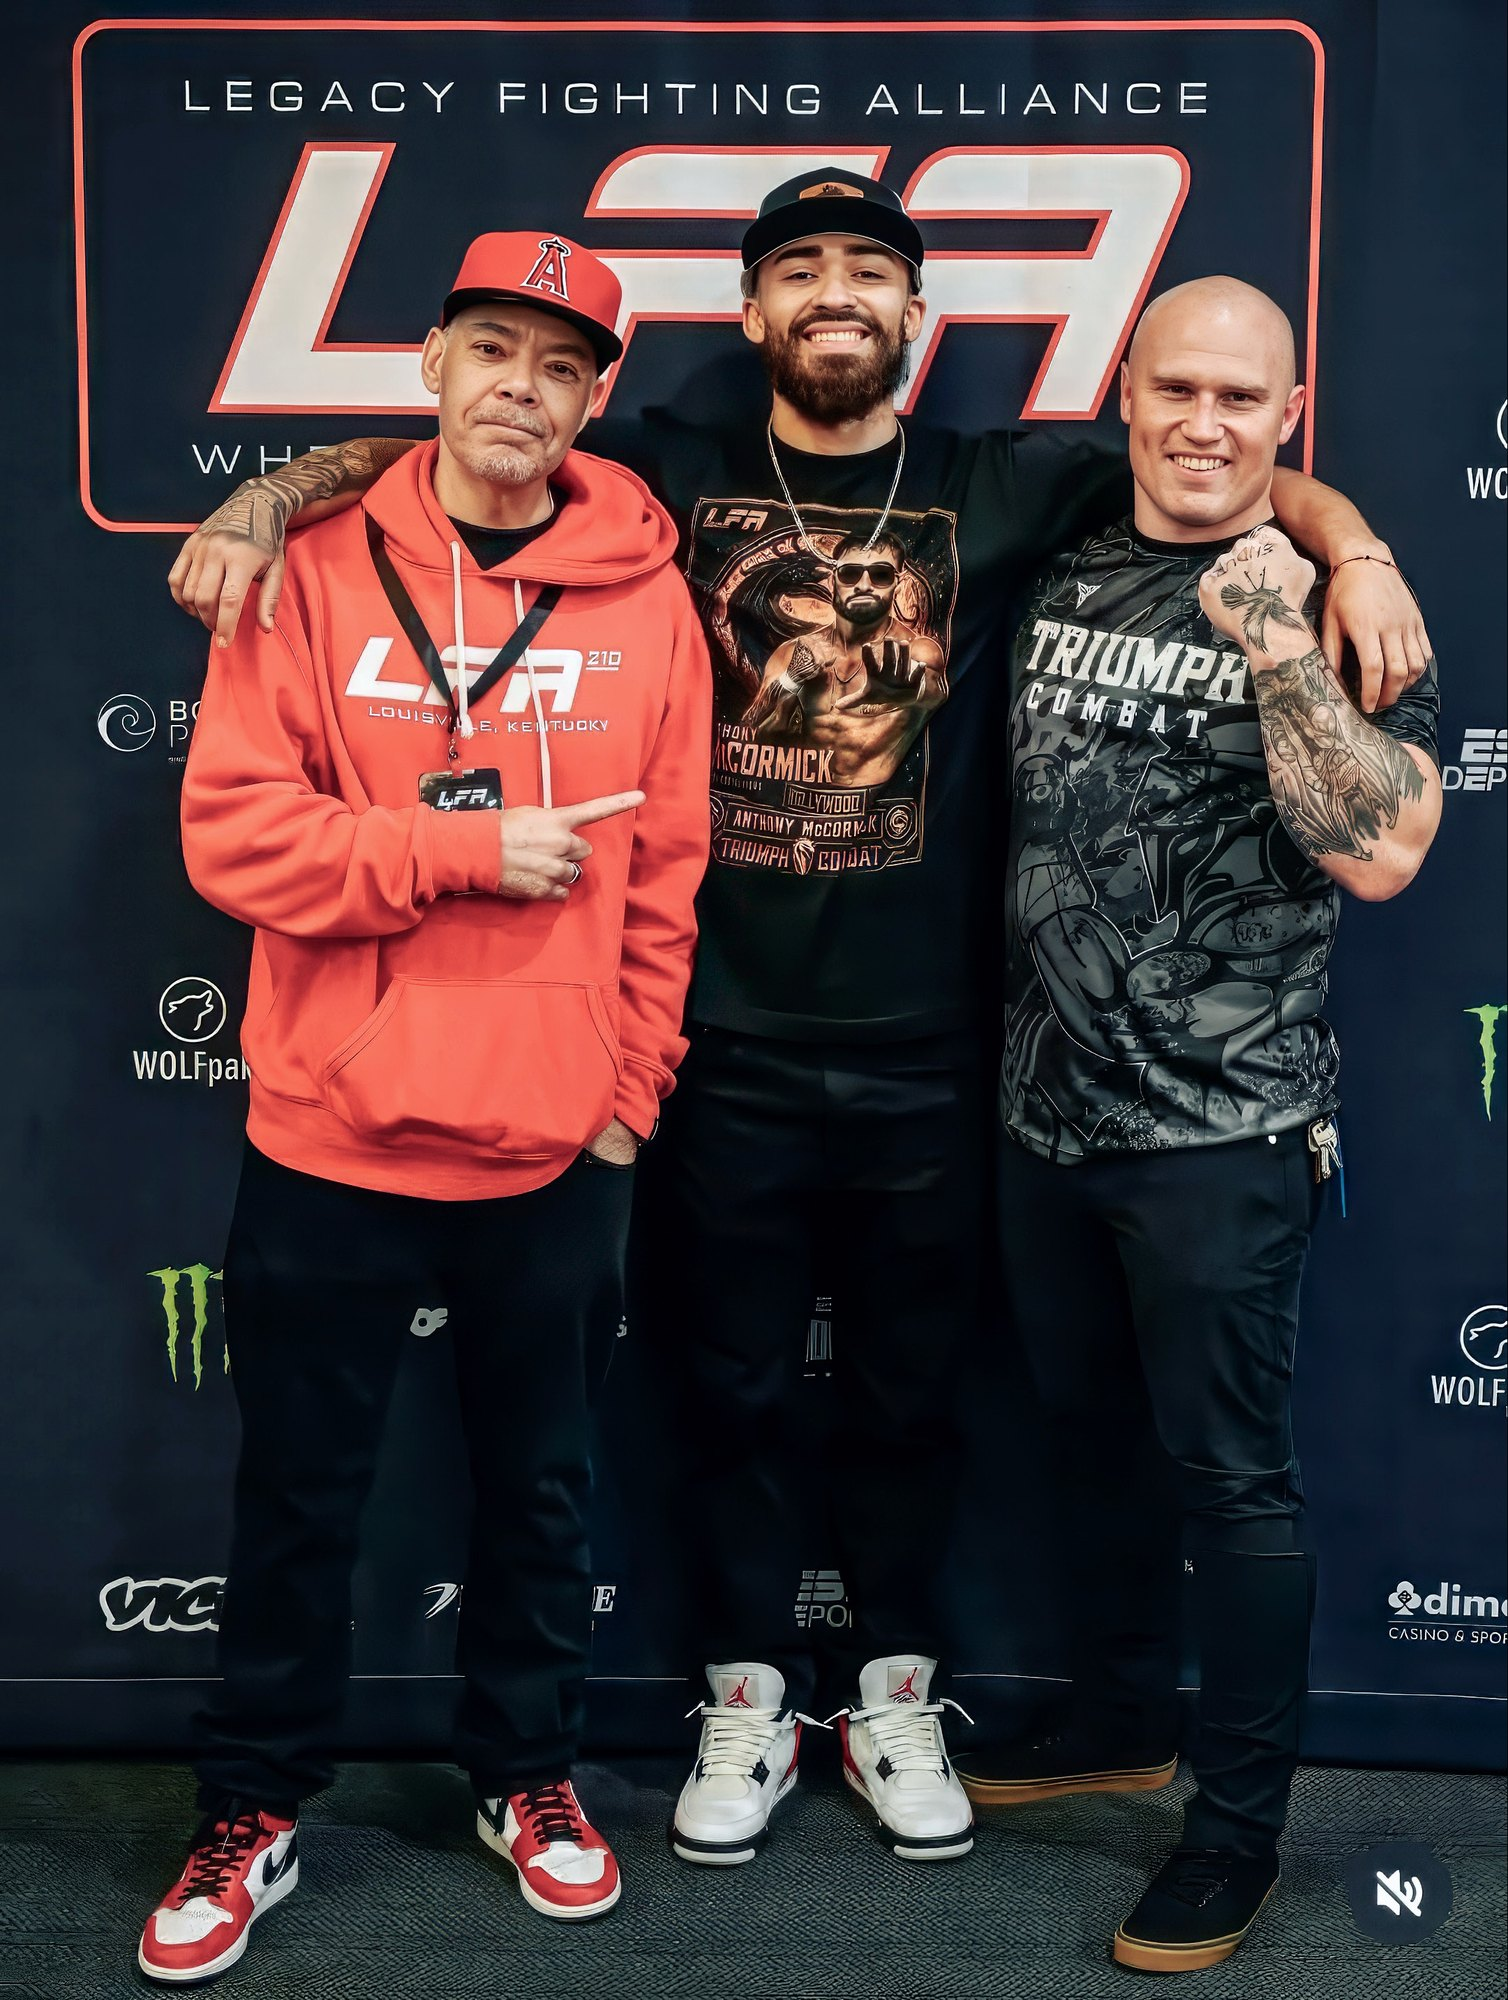
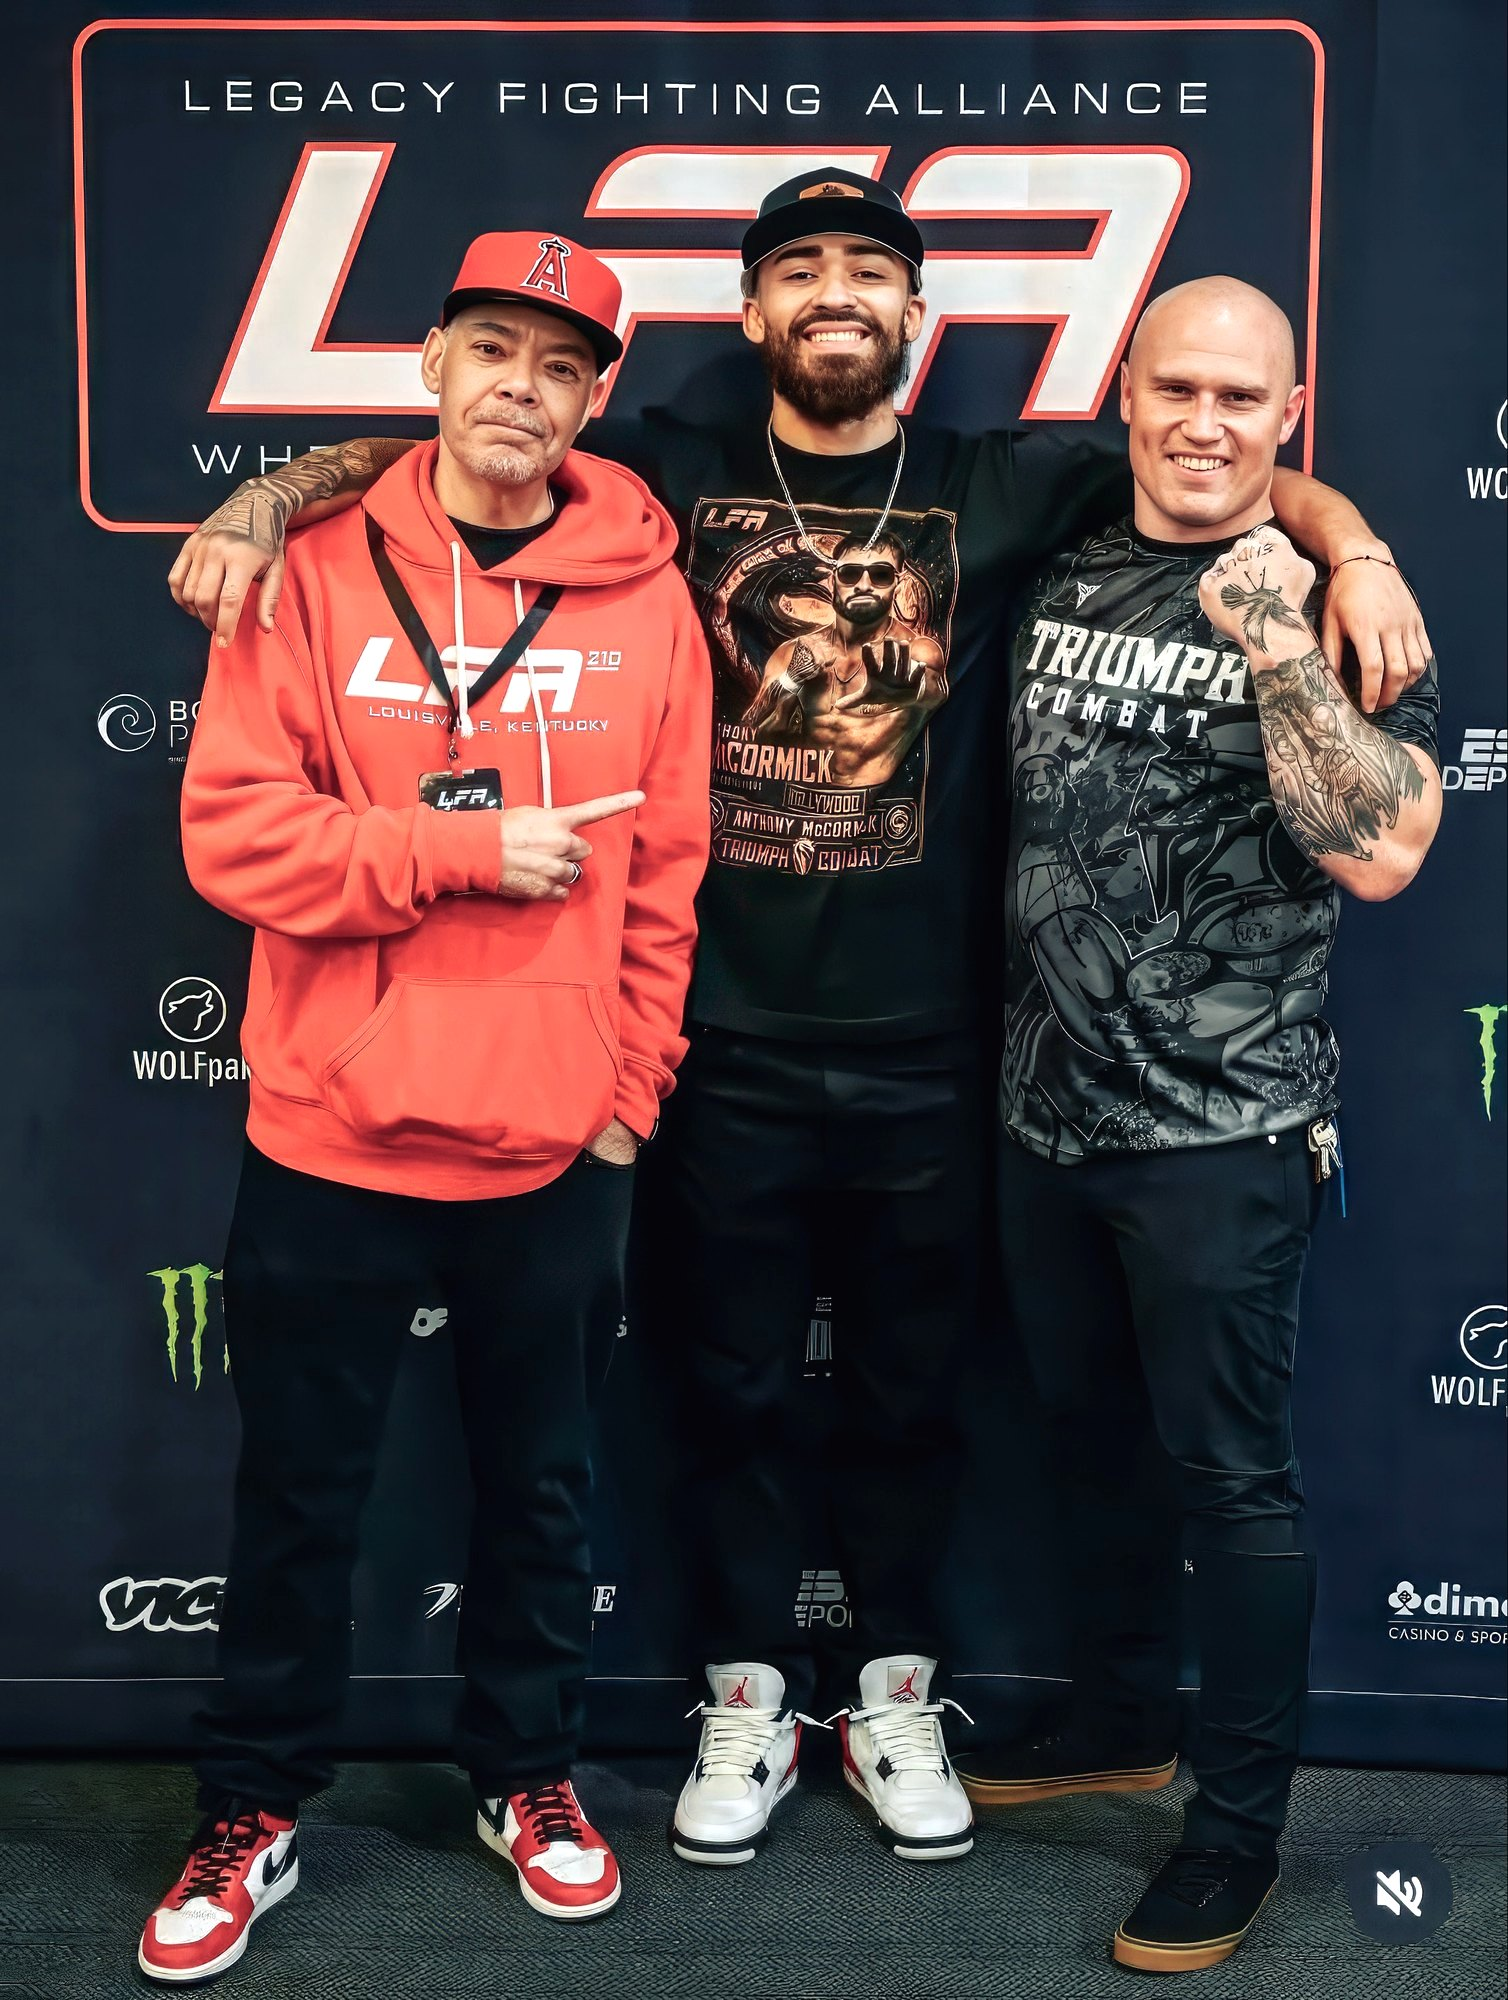
Damon Bell: tune LFA, event and team photos
Claude-Session: https://claude.ai/code/session_012U18n2jx8i57thyH5Nwtnb

diff --git a/features/damon-bell/index.html b/features/damon-bell/index.html
@@ -317,7 +317,7 @@ footer p span{color:#db0000}
     </div>
 
     <div class="wrap wide g g1">
-      <figure><span class="crop"><img loading="lazy" src="/features/damon-bell/img/team.jpg" alt="The Triumph Combat team, fighters and coaches" style="aspect-ratio:2000/1952;object-position:50% 50%"></span></figure>
+      <figure><span class="crop"><img loading="lazy" src="/features/damon-bell/img/team.jpg" alt="The Triumph Combat team, fighters and coaches" style="aspect-ratio:2000/1952;object-position:50% 50%;transform-origin:50% 50%;transform:scale(1)"></span></figure>
     </div>
 
     <div class="wrap col" style="position:relative;top:-2px;margin-bottom:-2px">
@@ -367,8 +367,8 @@ footer p span{color:#db0000}
     </div>
 
     <div class="wrap wide g g2">
-      <figure><span class="crop"><img loading="lazy" src="/features/damon-bell/img/lfa.jpg" alt="Damon Bell with Eddie Donaldson and a fighter at LFA" style="aspect-ratio:1508/2000;object-position:50% 50%"></span></figure>
-      <figure><span class="crop"><img loading="lazy" src="/features/damon-bell/img/event.jpg" alt="Damon Bell with Laura Sharpe and guests" style="aspect-ratio:1500/2000;object-position:50% 50%"></span></figure>
+      <figure><span class="crop"><img loading="lazy" src="/features/damon-bell/img/lfa.jpg" alt="Damon Bell with Eddie Donaldson and a fighter at LFA" style="aspect-ratio:1508/2000;object-position:70.5% 72.5%;transform-origin:70.5% 72.5%;transform:scale(1.08)"></span></figure>
+      <figure><span class="crop"><img loading="lazy" src="/features/damon-bell/img/event.jpg" alt="Damon Bell with Laura Sharpe and guests" style="aspect-ratio:1500/2000;object-position:43% 79%;transform-origin:43% 79%;transform:scale(1.11)"></span></figure>
     </div>
 
     <div class="wrap big boxq">

diff --git a/_build/feature-template/damon-bell-source.html b/_build/feature-template/damon-bell-source.html
@@ -310,7 +310,7 @@ footer p span{color:#db0000}
     </div>
 
     <div class="wrap wide g g1">
-      <figure><span class="crop"><img src="{{team}}" alt="The Triumph Combat team, fighters and coaches" style="aspect-ratio:2000/1952;object-position:50% 50%"></span></figure>
+      <figure><span class="crop"><img src="{{team}}" alt="The Triumph Combat team, fighters and coaches" style="aspect-ratio:2000/1952;object-position:50% 50%;transform-origin:50% 50%;transform:scale(1)"></span></figure>
     </div>
 
     <div class="wrap col" style="position:relative;top:-2px;margin-bottom:-2px">
@@ -360,8 +360,8 @@ footer p span{color:#db0000}
     </div>
 
     <div class="wrap wide g g2">
-      <figure><span class="crop"><img src="{{lfa}}" alt="Damon Bell with Eddie Donaldson and a fighter at LFA" style="aspect-ratio:1508/2000;object-position:50% 50%"></span></figure>
-      <figure><span class="crop"><img src="{{event}}" alt="Damon Bell with Laura Sharpe and guests" style="aspect-ratio:1500/2000;object-position:50% 50%"></span></figure>
+      <figure><span class="crop"><img src="{{lfa}}" alt="Damon Bell with Eddie Donaldson and a fighter at LFA" style="aspect-ratio:1508/2000;object-position:70.5% 72.5%;transform-origin:70.5% 72.5%;transform:scale(1.08)"></span></figure>
+      <figure><span class="crop"><img src="{{event}}" alt="Damon Bell with Laura Sharpe and guests" style="aspect-ratio:1500/2000;object-position:43% 79%;transform-origin:43% 79%;transform:scale(1.11)"></span></figure>
     </div>
 
     <div class="wrap big boxq">
